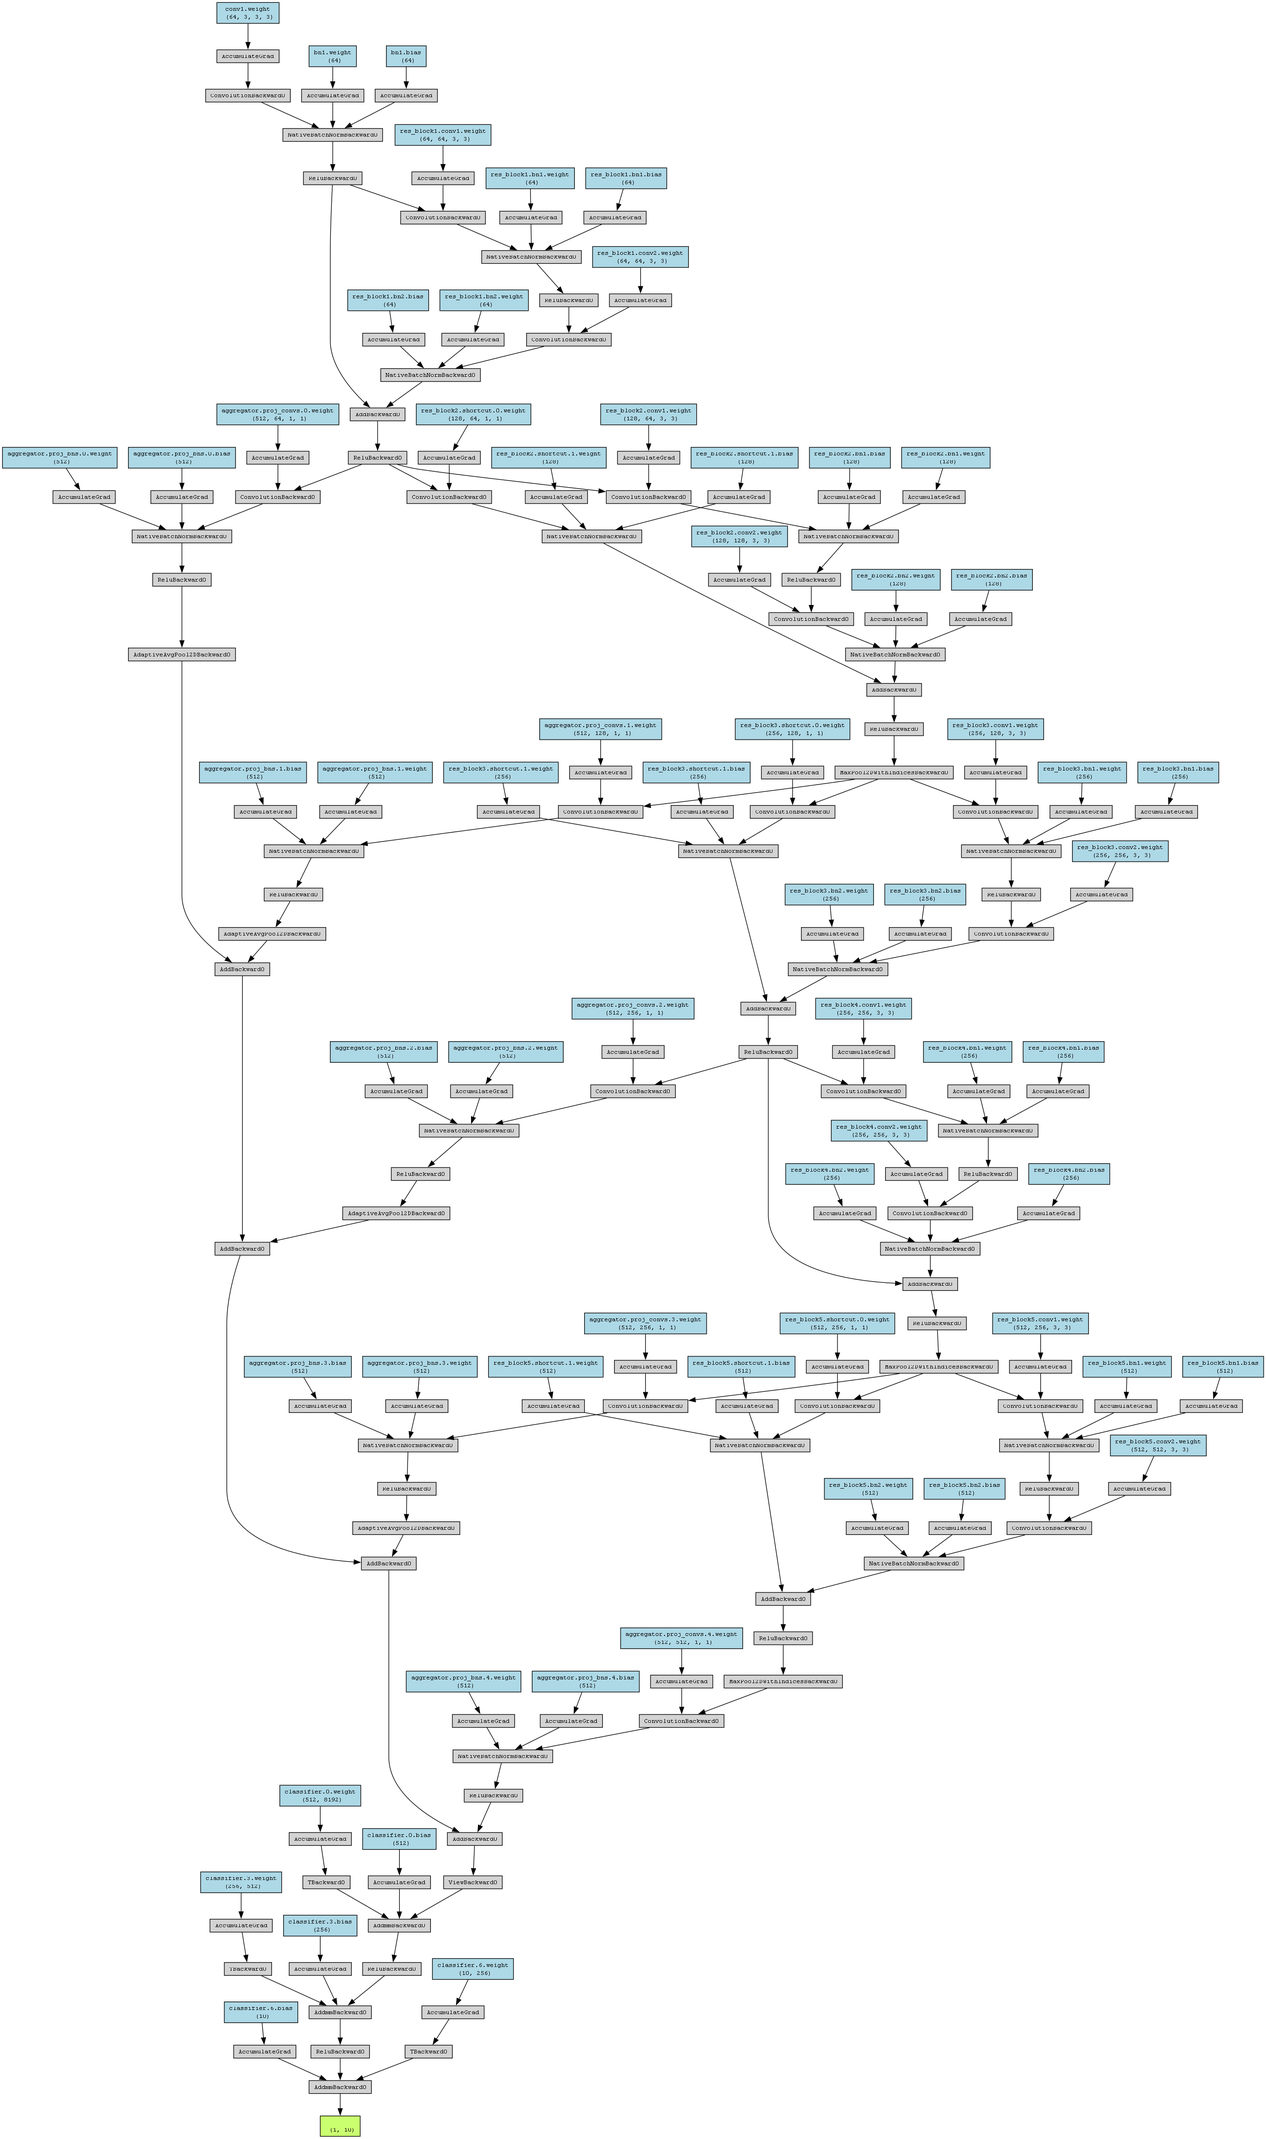
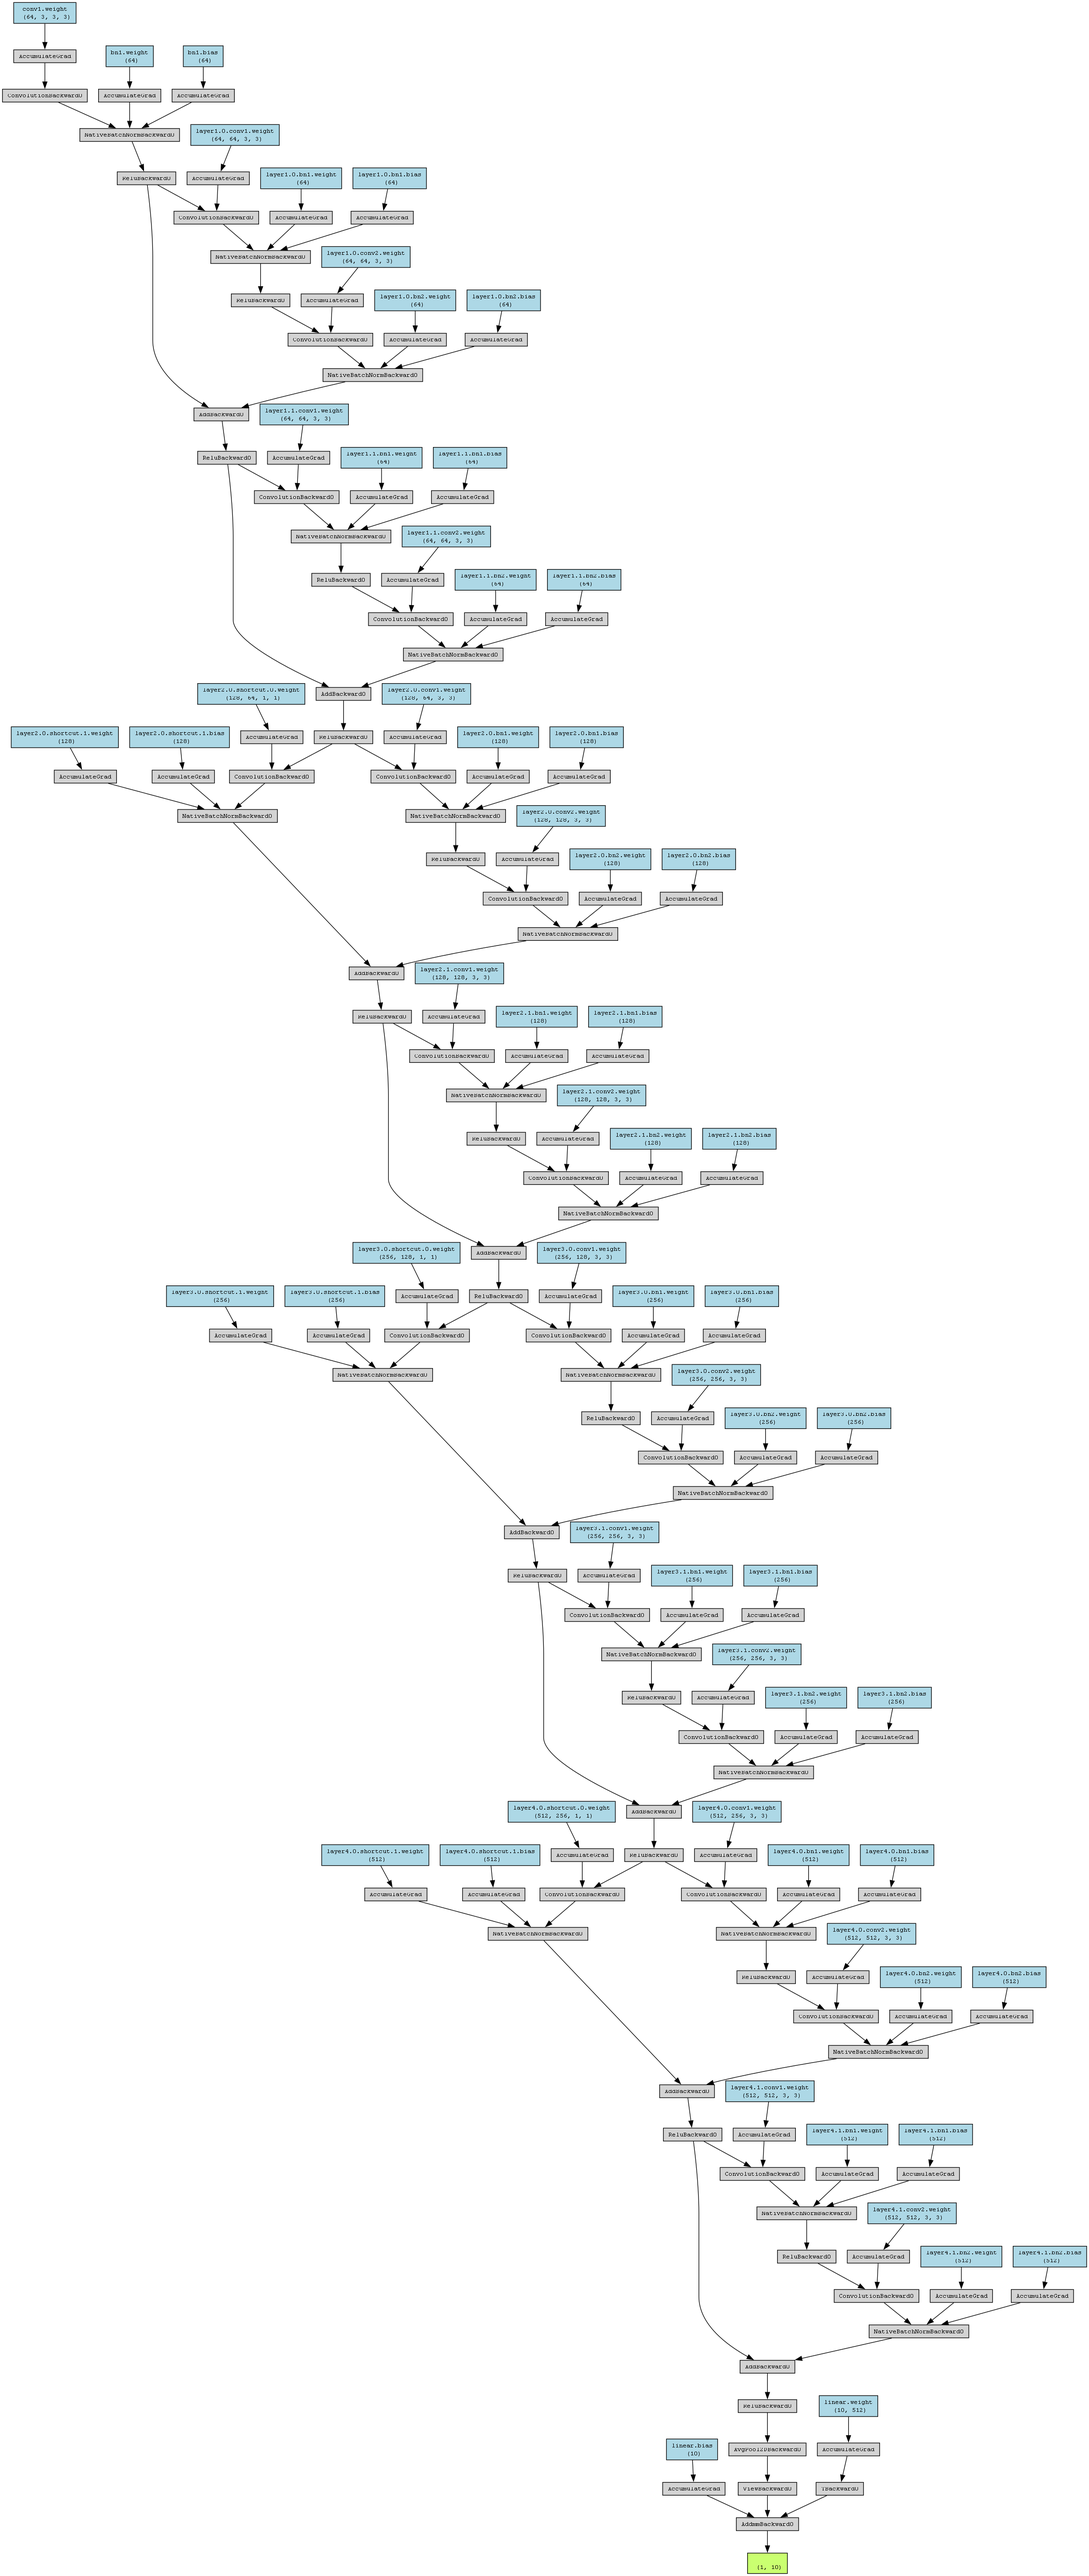
Refactor DeepBaselineNetBN4Residual to ResNet-18 architecture and update related files
- Renamed DeepBaselineNetBN4Residual to ResNet18 in `main.py` and updated its implementation to follow the standard ResNet-18 architecture.
- Revised model documentation in `deep_baseline4_bn_residual.py` to reflect the new structure and design intent.
- Updated `README.md` to include performance metrics for the new ResNet-18 model.
- Enhanced model visualization utilities in `visualize.py` to support command-line argument parsing for better usability.

Changed region(s): [[0.0, 0.0, 1.0, 1.0], [0.1546, 0.5587, 0.2164, 0.5897]]

diff --git a/models/deep_baseline4_bn_residual.py b/models/deep_baseline4_bn_residual.py
@@ -1,37 +1,37 @@
 """
-DeepBaselineNetBN4Residual: DeepBaselineNetBN3Residual의 더 깊은 버전
+ResNet-18: 표준 ResNet-18 아키텍처 구현
 
 설계 의도:
-1. 더 깊은 네트워크 구조
-   - 각 채널 레벨에서 여러 개의 residual block을 사용하여 네트워크 깊이 증가
-   - ResNet 스타일의 레이어 구성 (각 채널 레벨마다 2-3개의 블록)
-   - Residual connection으로 인해 깊은 네트워크에서도 안정적인 학습 가능
+1. 표준 ResNet-18 구조
+   - ResNet 논문의 정확한 구조를 따름
+   - BasicBlock을 사용한 18층 네트워크
+   - 각 레이어에 2개의 residual block 사용
 
 2. 네트워크 구조:
-   - 초기 Conv-BN-ReLU (3 -> 64)
-   - 64 채널: 2개의 residual block
-   - 128 채널: 3개의 residual block
-   - 256 채널: 3개의 residual block
-   - 512 채널: 2개의 residual block
-   - Fully Connected Layers (분류기)
+   - 초기 Conv-BN-ReLU (3 -> 64, stride=1, padding=1)
+   - Layer 1: 64 채널, 2개의 residual block (stride=1)
+   - Layer 2: 128 채널, 2개의 residual block (stride=2)
+   - Layer 3: 256 채널, 2개의 residual block (stride=2)
+   - Layer 4: 512 채널, 2개의 residual block (stride=2)
+   - Average Pooling (4x4)
+   - Fully Connected Layer (512 -> 10)
 
-3. DeepBaselineNetBN3Residual과의 차이점:
-   - 각 채널 레벨에서 여러 개의 residual block 사용
-   - 총 residual block 수: 5개 -> 10개
-   - 더 깊은 네트워크로 인한 표현력 향상 기대
+3. CIFAR-10에 최적화:
+   - 작은 이미지 크기에 맞춰 초기 conv를 3x3, stride=1로 설정
+   - 마지막에 4x4 average pooling 사용
 
 참고:
 - ResNet 논문: "Deep Residual Learning for Image Recognition" (He et al., 2015)
-- 깊은 네트워크에서 residual connection이 그래디언트 소실 문제를 해결하는 핵심 기술
+- ResNet-18: BasicBlock을 사용하여 [2, 2, 2, 2] 구조
 """
 import torch
 import torch.nn as nn
 import torch.nn.functional as F
 
 
-class ResidualBlock(nn.Module):
+class BasicBlock(nn.Module):
     """
-    ResNet 스타일의 Basic Residual Block
+    ResNet의 Basic Residual Block
     
     구조:
     - 입력 x
@@ -40,35 +40,35 @@ class ResidualBlock(nn.Module):
     - 출력: ReLU(main_path + shortcut)
     
     Args:
-        in_channels: 입력 채널 수
-        out_channels: 출력 채널 수
+        in_planes: 입력 채널 수
+        planes: 출력 채널 수
         stride: 첫 번째 conv의 stride (다운샘플링용, 기본값=1)
     """
     expansion = 1
     
-    def __init__(self, in_channels, out_channels, stride=1):
-        super(ResidualBlock, self).__init__()
+    def __init__(self, in_planes, planes, stride=1):
+        super(BasicBlock, self).__init__()
         
         # Main path: 두 개의 Conv-BN 블록
         # 첫 번째 Conv-BN-ReLU 블록
-        self.conv1 = nn.Conv2d(in_channels, out_channels, kernel_size=3, 
+        self.conv1 = nn.Conv2d(in_planes, planes, kernel_size=3, 
                                stride=stride, padding=1, bias=False)
-        self.bn1 = nn.BatchNorm2d(out_channels)
+        self.bn1 = nn.BatchNorm2d(planes)
         
         # 두 번째 Conv-BN 블록 (ReLU는 residual connection 후에 적용)
-        self.conv2 = nn.Conv2d(out_channels, out_channels, kernel_size=3,
+        self.conv2 = nn.Conv2d(planes, planes, kernel_size=3,
                                stride=1, padding=1, bias=False)
-        self.bn2 = nn.BatchNorm2d(out_channels)
+        self.bn2 = nn.BatchNorm2d(planes)
         
         # Shortcut connection
         # 채널 수가 다르거나 stride가 1이 아닌 경우 projection 필요
         self.shortcut = nn.Sequential()
-        if stride != 1 or in_channels != out_channels:
+        if stride != 1 or in_planes != self.expansion * planes:
             # 1x1 conv를 사용하여 채널 수와 공간 크기 조정
             self.shortcut = nn.Sequential(
-                nn.Conv2d(in_channels, out_channels, kernel_size=1,
+                nn.Conv2d(in_planes, self.expansion * planes, kernel_size=1,
                          stride=stride, bias=False),
-                nn.BatchNorm2d(out_channels)
+                nn.BatchNorm2d(self.expansion * planes)
             )
     
     def forward(self, x):
@@ -76,22 +76,19 @@ class ResidualBlock(nn.Module):
         Forward pass
         
         Args:
-            x: 입력 텐서 [batch, in_channels, H, W]
+            x: 입력 텐서 [batch, in_planes, H, W]
             
         Returns:
-            out: 출력 텐서 [batch, out_channels, H', W']
+            out: 출력 텐서 [batch, planes, H', W']
         """
         # Identity 또는 projection shortcut 저장
         identity = self.shortcut(x)
         
         # Main path: 첫 번째 Conv-BN-ReLU
-        out = self.conv1(x)
-        out = self.bn1(out)
-        out = F.relu(out)
+        out = F.relu(self.bn1(self.conv1(x)))
         
         # Main path: 두 번째 Conv-BN
-        out = self.conv2(out)
-        out = self.bn2(out)
+        out = self.bn2(self.conv2(out))
         
         # Residual connection: F(x) + x
         out += identity
@@ -102,69 +99,63 @@ class ResidualBlock(nn.Module):
         return out
 
 
-class DeepBaselineNetBN4Residual(nn.Module):
+class ResNet18(nn.Module):
     """
-    DeepBaselineNetBN3Residual의 더 깊은 버전
+    표준 ResNet-18 아키텍처
     
     구조:
-    1. 초기 Conv-BN-ReLU (3 -> 64)
-    2. 64 채널 레벨: 2개의 residual block (64 -> 64)
-    3. 128 채널 레벨: 3개의 residual block (64 -> 128, 128 -> 128, 128 -> 128)
-    4. 256 채널 레벨: 3개의 residual block (128 -> 256, 256 -> 256, 256 -> 256)
-    5. 512 채널 레벨: 2개의 residual block (256 -> 512, 512 -> 512)
-    6. Fully Connected Layers (분류기)
+    1. 초기 Conv-BN-ReLU (3 -> 64, stride=1, padding=1)
+    2. Layer 1: 64 채널, 2개의 BasicBlock (stride=1)
+    3. Layer 2: 128 채널, 2개의 BasicBlock (stride=2)
+    4. Layer 3: 256 채널, 2개의 BasicBlock (stride=2)
+    5. Layer 4: 512 채널, 2개의 BasicBlock (stride=2)
+    6. Average Pooling (4x4)
+    7. Fully Connected Layer (512 -> 10)
     
-    총 10개의 residual block 사용 (기존 5개에서 증가)
+    총 8개의 BasicBlock 사용 (각 레이어마다 2개씩)
     """
     
-    def __init__(self, init_weights=False):
-        super(DeepBaselineNetBN4Residual, self).__init__()
+    def __init__(self, num_classes=10, init_weights=False):
+        super(ResNet18, self).__init__()
+        self.in_planes = 64
         
         # 초기 feature extraction
         # 입력: 3채널 (RGB), 출력: 64채널
-        self.conv1 = nn.Conv2d(3, 64, kernel_size=3, padding=1, bias=False)
+        # CIFAR-10에 맞춰 3x3 conv, stride=1, padding=1 사용
+        self.conv1 = nn.Conv2d(3, 64, kernel_size=3, stride=1, padding=1, bias=False)
         self.bn1 = nn.BatchNorm2d(64)
         
-        # 64 채널 레벨: 2개의 residual block
-        # 첫 번째 블록: 채널 증가 없음 (identity shortcut)
-        self.res_block1_1 = ResidualBlock(64, 64, stride=1)
-        self.res_block1_2 = ResidualBlock(64, 64, stride=1)
+        # ResNet-18 레이어 구성: [2, 2, 2, 2]
+        self.layer1 = self._make_layer(BasicBlock, 64, 2, stride=1)
+        self.layer2 = self._make_layer(BasicBlock, 128, 2, stride=2)
+        self.layer3 = self._make_layer(BasicBlock, 256, 2, stride=2)
+        self.layer4 = self._make_layer(BasicBlock, 512, 2, stride=2)
         
-        # 128 채널 레벨: 3개의 residual block
-        # 첫 번째 블록: 64 -> 128 (채널 증가, projection shortcut 필요)
-        self.res_block2_1 = ResidualBlock(64, 128, stride=1)
-        # 두 번째, 세 번째 블록: 128 -> 128 (identity shortcut)
-        self.res_block2_2 = ResidualBlock(128, 128, stride=1)
-        self.res_block2_3 = ResidualBlock(128, 128, stride=1)
-        
-        # 256 채널 레벨: 3개의 residual block
-        # 첫 번째 블록: 128 -> 256 (채널 증가, projection shortcut 필요)
-        self.res_block3_1 = ResidualBlock(128, 256, stride=1)
-        # 두 번째, 세 번째 블록: 256 -> 256 (identity shortcut)
-        self.res_block3_2 = ResidualBlock(256, 256, stride=1)
-        self.res_block3_3 = ResidualBlock(256, 256, stride=1)
-        
-        # 512 채널 레벨: 2개의 residual block
-        # 첫 번째 블록: 256 -> 512 (채널 증가, projection shortcut 필요)
-        self.res_block4_1 = ResidualBlock(256, 512, stride=1)
-        # 두 번째 블록: 512 -> 512 (identity shortcut)
-        self.res_block4_2 = ResidualBlock(512, 512, stride=1)
-        
-        # MaxPooling (원래 구조와 동일하게 유지)
-        self.pool = nn.MaxPool2d(2, 2)
-        
-        self.classifier = nn.Sequential(
-            nn.Linear(512 * 4 * 4, 512),
-            nn.ReLU(),
-            nn.Dropout(p=0.1),
-            nn.Linear(512, 256),
-            nn.ReLU(),
-            nn.Dropout(p=0.1),
-            nn.Linear(256, 10),
-        )
+        # 분류기
+        self.linear = nn.Linear(512 * BasicBlock.expansion, num_classes)
         
         if init_weights:
             self._initialize_weights()
+    
+    def _make_layer(self, block, planes, num_blocks, stride):
+        """
+        레이어 생성 헬퍼 함수
+        
+        Args:
+            block: 사용할 블록 타입 (BasicBlock)
+            planes: 출력 채널 수
+            num_blocks: 블록 개수
+            stride: 첫 번째 블록의 stride
+            
+        Returns:
+            레이어를 구성하는 Sequential 모듈
+        """
+        strides = [stride] + [1] * (num_blocks - 1)
+        layers = []
+        for stride in strides:
+            layers.append(block(self.in_planes, planes, stride))
+            self.in_planes = planes * block.expansion
+        return nn.Sequential(*layers)
     
     def _initialize_weights(self):
         """가중치 초기화 - ReLU를 사용하므로 Kaiming initialization 사용"""
@@ -192,36 +183,22 @@ class DeepBaselineNetBN4Residual(nn.Module):
             out: 분류 로짓 [batch, 10]
         """
         # 초기 Conv-BN-ReLU
-        x = self.conv1(x)
-        x = self.bn1(x)
-        x = F.relu(x)
+        out = F.relu(self.bn1(self.conv1(x)))
         
-        # 64 채널 레벨: 2개의 residual block
-        x = self.res_block1_1(x)
-        x = self.res_block1_2(x)
+        # ResNet 레이어들
+        out = self.layer1(out)  # 64 채널, 32x32
+        out = self.layer2(out)  # 128 채널, 16x16 (stride=2)
+        out = self.layer3(out)  # 256 채널, 8x8 (stride=2)
+        out = self.layer4(out)  # 512 채널, 4x4 (stride=2)
         
-        # 128 채널 레벨: 3개의 residual block
-        x = self.res_block2_1(x)  # 64 -> 128
-        x = self.res_block2_2(x)   # 128 -> 128
-        x = self.res_block2_3(x)   # 128 -> 128
-        x = self.pool(x)  # 32x32 -> 16x16
+        # Average Pooling: [batch, 512, 4, 4] -> [batch, 512, 1, 1]
+        out = F.avg_pool2d(out, 4)
         
-        # 256 채널 레벨: 3개의 residual block
-        x = self.res_block3_1(x)  # 128 -> 256
-        x = self.res_block3_2(x)  # 256 -> 256
-        x = self.res_block3_3(x)  # 256 -> 256
-        x = self.pool(x)  # 16x16 -> 8x8
+        # Flatten: [batch, 512, 1, 1] -> [batch, 512]
+        out = out.view(out.size(0), -1)
         
-        # 512 채널 레벨: 2개의 residual block
-        x = self.res_block4_1(x)  # 256 -> 512
-        x = self.res_block4_2(x)   # 512 -> 512
-        x = self.pool(x)  # 8x8 -> 4x4
+        # Fully Connected Layer
+        out = self.linear(out)
         
-        # Flatten: [batch, 512, 4, 4] -> [batch, 512*4*4]
-        x = torch.flatten(x, 1)
-        
-        # Fully Connected Layers
-        x = self.classifier(x)
-        
-        return x
+        return out
 

diff --git a/utils/visualize.py b/utils/visualize.py
@@ -9,6 +9,7 @@
 5. 계산 그래프 시각화 (선택적)
 """
 import sys
+import argparse
 from pathlib import Path
 from typing import Optional, Tuple, List
 
@@ -321,25 +322,62 @@ def print_model_architecture(model: nn.Module, indent: int = 0):
         print_model_architecture(child, indent + 2)
 
 
+def parse_args():
+    """커맨드라인 인자 파싱"""
+    parser = argparse.ArgumentParser(description='CIFAR-10 모델 시각화')
+    parser.add_argument('--net', type=str, default='resnet18',
+                        choices=['baseline', 'baseline_bn', 'deep_baseline', 'deep_baseline_silu',
+                                 'deep_baseline_bn', 'deep_baseline_gap', 'deep_baseline_bn_dropout',
+                                 'deep_baseline_bn_dropout_resnet', 'deep_baseline_se', 'resnet18',
+                                 'vgg16', 'mobilenetv2', 'densenet121', 'deep_baseline2_bn', 'deep_baseline2_bn_residual',
+                                 'deep_baseline2_bn_residual_preact', 'deep_baseline3_bn', 'deep_baseline2_bn_resnext', 'deep_baseline2_bn_residual_se',
+                                 'deep_baseline2_bn_residual_grn', 'deep_baseline3_bn_residual', 'deep_baseline3_bn_residual_swish', 'deep_baseline3_bn_residual_swiglu', 'deep_baseline3_bn_residual_dla', 'deep_baseline3_bn_residual_group', 'deep_baseline4_bn_residual',
+                                 'convnext_patchify', 'convnext_local', 'convnext_cifar', 'convnext_tiny',
+                                 'mxresnet20', 'mxresnet32', 'mxresnet44', 'mxresnet56', 'dla', 'resnext29_4x64d'],
+                        help='네트워크 모델 (default: resnet18)')
+    parser.add_argument('--w-init', action='store_true',
+                        help='Weight initialization 사용 (default: False)')
+    parser.add_argument('--input-size', type=int, nargs=3, default=[3, 32, 32],
+                        metavar=('C', 'H', 'W'),
+                        help='입력 크기 (C, H, W) (default: 3 32 32)')
+    parser.add_argument('--device', type=str, default='cpu',
+                        choices=['cpu', 'cuda'],
+                        help='디바이스 (default: cpu)')
+    parser.add_argument('--no-detailed', action='store_true',
+                        help='상세 정보 출력 비활성화 (default: False)')
+    parser.add_argument('--save-graph', type=str, default=None,
+                        help='계산 그래프 저장 경로 (저장하지 않으려면 지정하지 않음)')
+    parser.add_argument('--show-architecture', action='store_true',
+                        help='계층 구조 트리 출력 (default: False)')
+    return parser.parse_args()
+
+
 if __name__ == '__main__':
-    # 테스트 코드
-    from models.deep_baseline3_bn_residual_dla import DeepBaselineNetBN3ResidualDLA
+    args = parse_args()
     
-    print("DeepBaselineNetBN3ResidualDLA 모델 시각화 테스트\n")
+    # main.py에서 get_net 함수 import
+    from main import get_net
     
-    model = DeepBaselineNetBN3ResidualDLA(init_weights=False)
+    # 모델 로드
+    print(f"모델 로드 중: {args.net}\n")
+    model = get_net(args.net, init_weights=args.w_init)
+    
+    # 입력 크기 설정
+    input_size = tuple(args.input_size)
     
     # 모델 시각화
     visualize_model(
         model,
-        input_size=(3, 32, 32),
-        device='cpu',
-        detailed=True,
-        save_graph='model_graph'  # 'model_graph'로 설정하면 그래프 저장
+        input_size=input_size,
+        device=args.device,
+        detailed=not args.no_detailed,
+        save_graph=args.save_graph
     )
     
-    print("\n" + "=" * 80)
-    print("계층 구조 트리")
-    print("=" * 80)
-    print_model_architecture(model)
+    # 계층 구조 트리 출력 (옵션)
+    if args.show_architecture:
+        print("\n" + "=" * 80)
+        print("계층 구조 트리")
+        print("=" * 80)
+        print_model_architecture(model)
 

diff --git a/main.py b/main.py
@@ -47,7 +47,7 @@ from models.deep_baseline3_bn_residual_swish import DeepBaselineNetBN3ResidualSw
 from models.deep_baseline3_bn_residual_swiglu import DeepBaselineNetBN3ResidualSwiGLU
 from models.deep_baseline3_bn_residual_dla import DeepBaselineNetBN3ResidualDLA
 from models.deep_baseline3_bn_residual_group import DeepBaselineNetBN3ResidualGroup
-from models.deep_baseline4_bn_residual import DeepBaselineNetBN4Residual
+from models.deep_baseline4_bn_residual import ResNet18 as DeepBaselineNetBN4Residual
 
 CLASS_NAMES = ('plane', 'car', 'bird', 'cat', 'deer',
                'dog', 'frog', 'horse', 'ship', 'truck')

diff --git a/README.md b/README.md
@@ -188,6 +188,7 @@ Weight Initialization: ✅
 | 모델 | 세부 사항 | 최고 Val Accuracy (%) |
 |------|------------|----------------------|
 | deep_baseline3_bn_residual | -- | 94.65 |
+| deep_baseline3_bn_residual_group | -- | 93.22 |
 | deep_baseline3_bn_residual_dla | -- | **94.96** |
 
 
